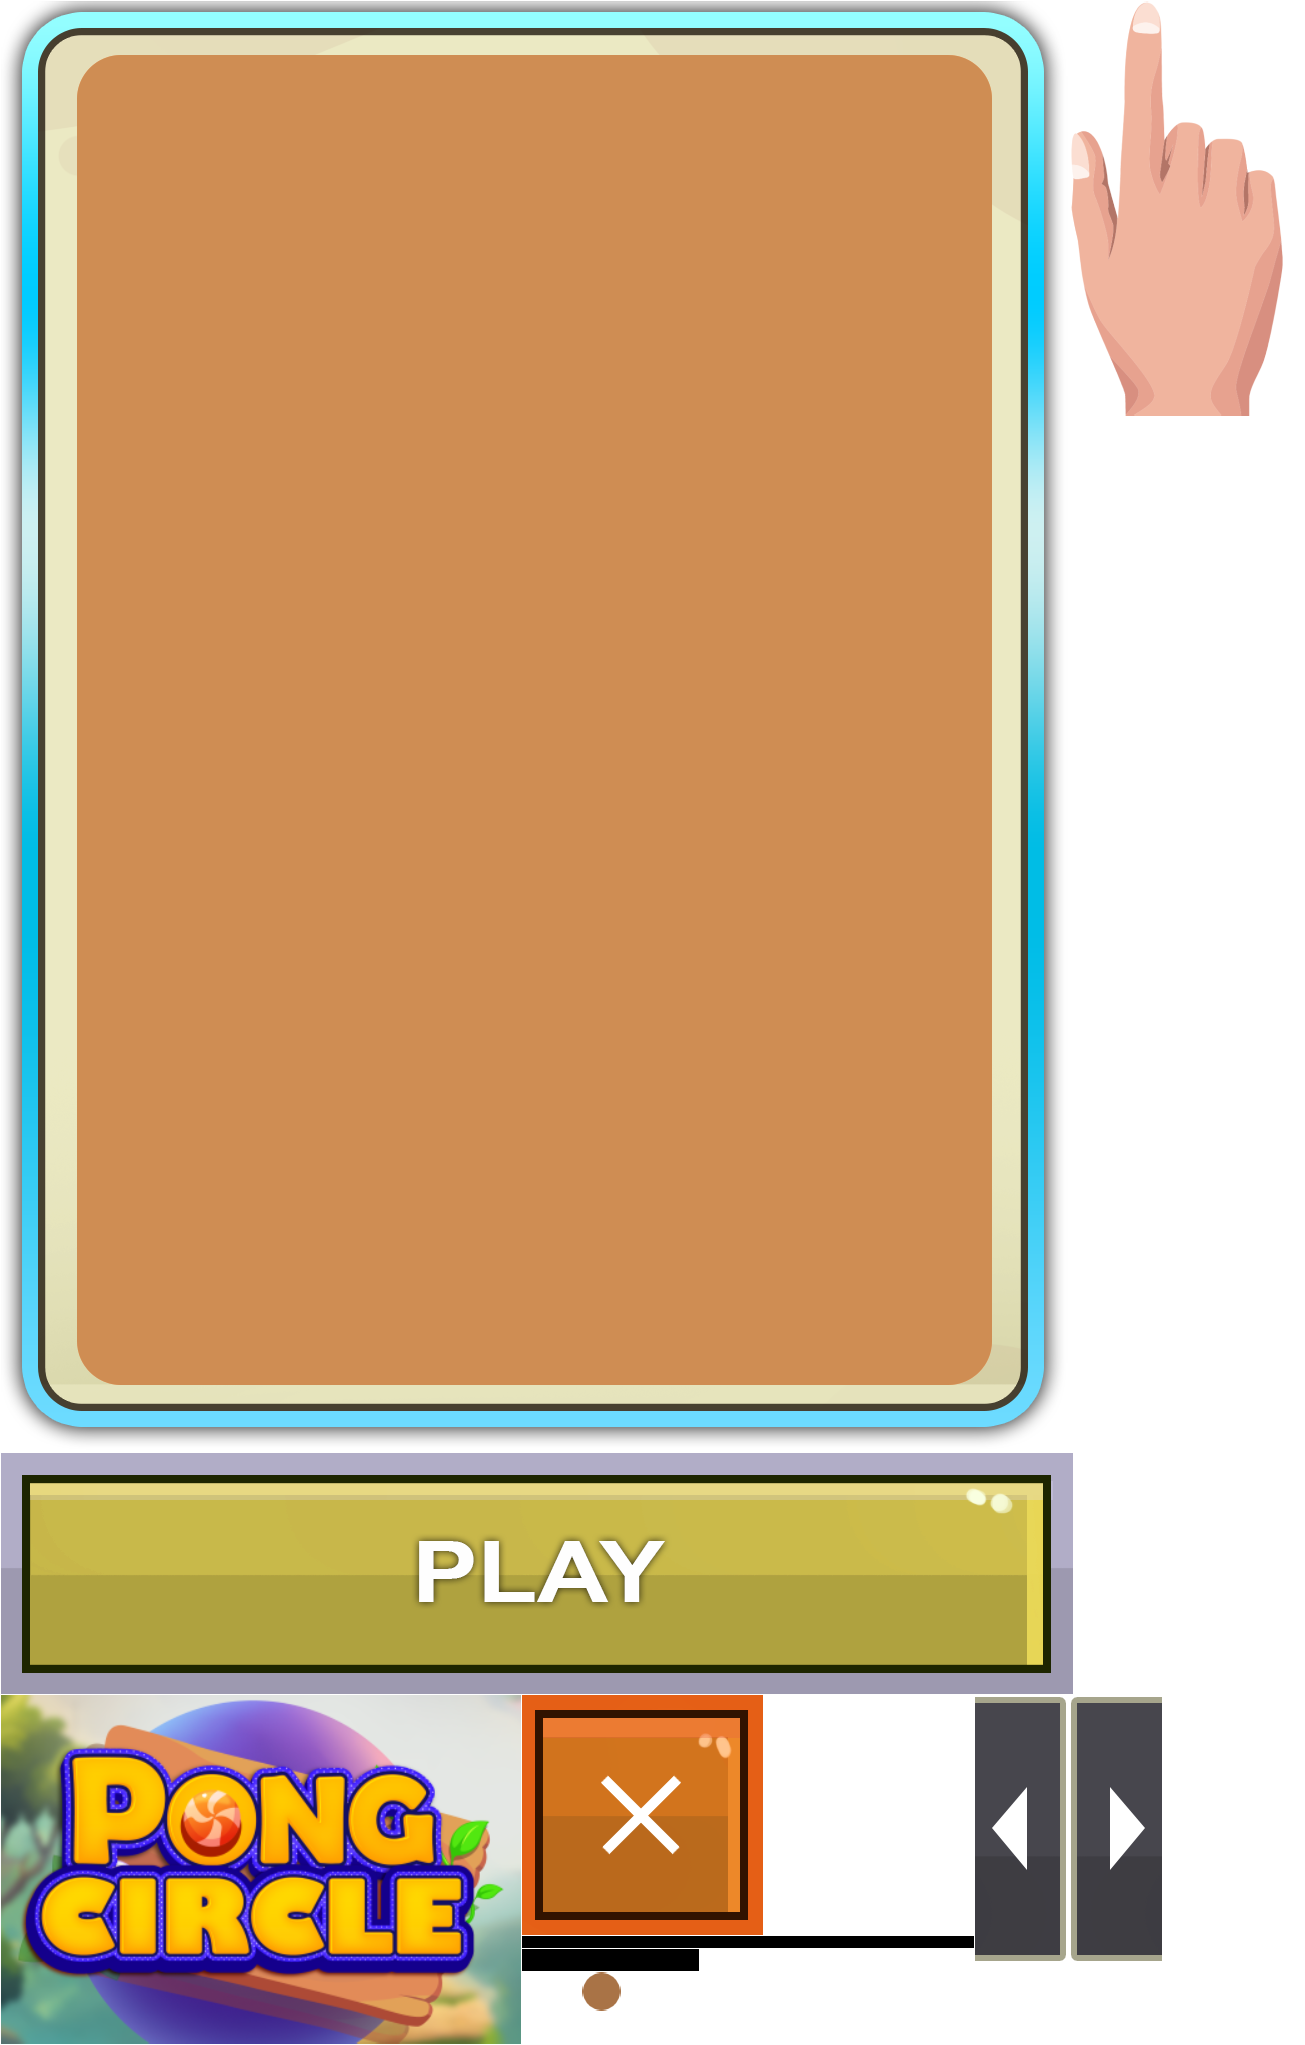
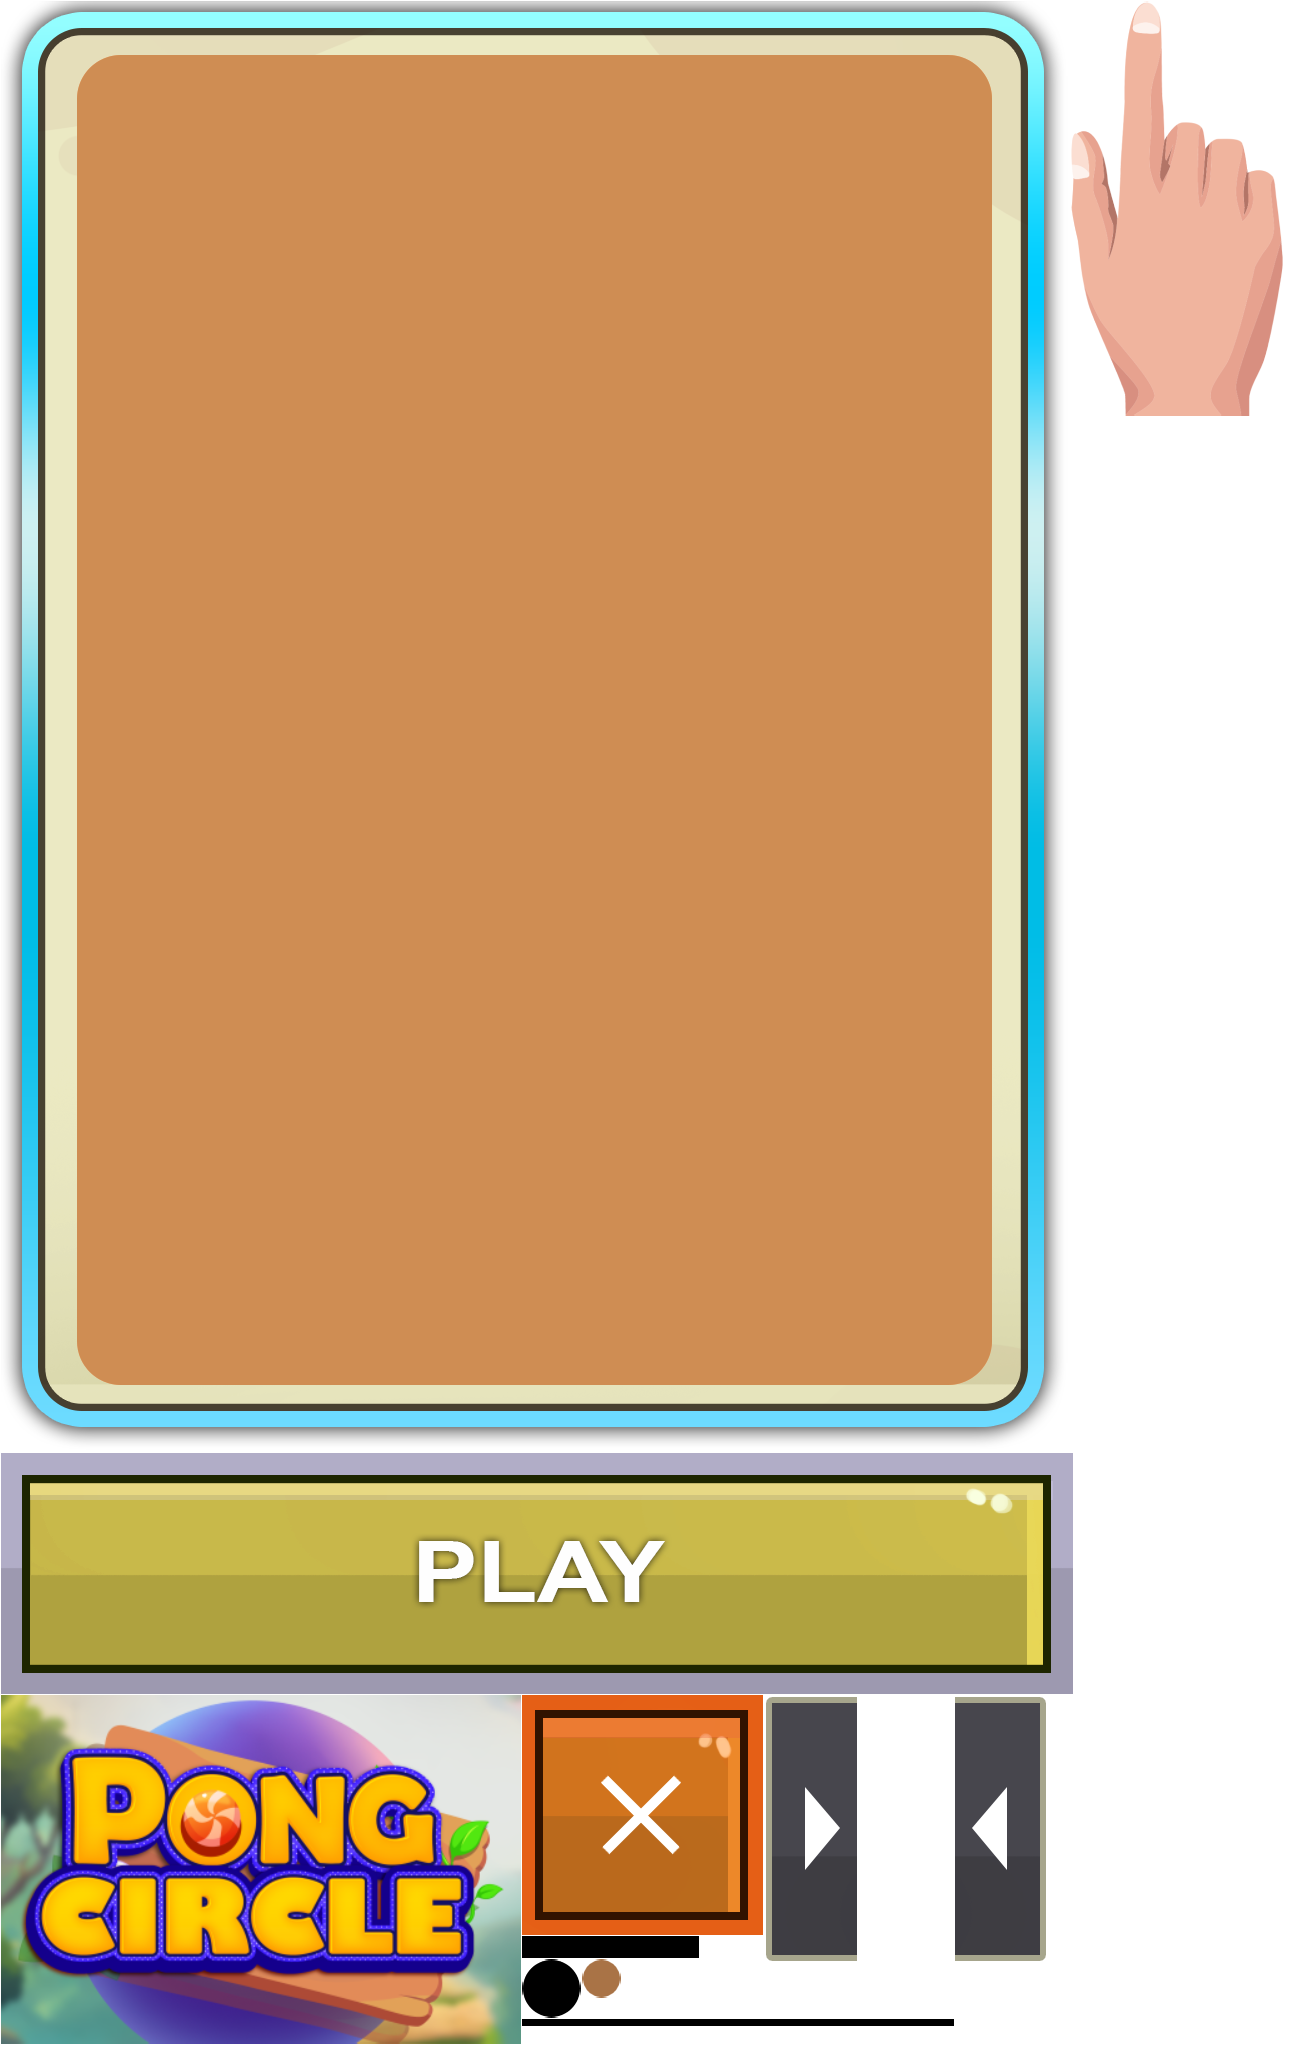
changed colours

Changed region(s): [[0.3985, 0.8318, 0.8889, 1.0]]

diff --git a/objects/cta.js b/objects/cta.js
@@ -27,12 +27,12 @@ export class CTA extends Phaser.GameObjects.Container {
         this.add(this.bg);
 
         this.frame = this.scene.add.graphics();
-        this.frame.lineStyle(5, 0x03d9d9)
+        this.frame.lineStyle(5, 0x000000)
         this.frame.strokeRoundedRect(-225, -400, 450, 800, 50);
         this.add(this.frame);
 
         this.line = this.scene.add.graphics();
-        this.line.fillStyle(0xda6b62, 1)
+        this.line.fillStyle(0x000000, 1)
         this.line.fillRect(-100, 150, 200, 4)
         this.add(this.line);
 
@@ -42,7 +42,7 @@ export class CTA extends Phaser.GameObjects.Container {
         this.ctaText1 = this.scene.add.text(0, -275, this.scene.text.texts[0].ctaTxt1, {
             fontFamily: "UberMoveMedium",
             fontSize: 20,
-            fill: "#ffffff",
+            fill: "#000000",
             align: "center",
         });
         this.ctaText1.setOrigin(0.5);
@@ -62,7 +62,7 @@ export class CTA extends Phaser.GameObjects.Container {
         this.ctaText3 = this.scene.add.text(0, 250, this.scene.text.texts[0].ctaTxt3, {
             fontFamily: "UberMoveMedium",
             fontSize: 40,
-            fill: "#c2c2c2",
+            fill: "#000000",
             align: "center",
         });
         this.ctaText3.setOrigin(0.5);
@@ -71,20 +71,11 @@ export class CTA extends Phaser.GameObjects.Container {
         this.count1 = this.scene.add.text(0, 75, this.countValue, {
             fontFamily: "UberMoveMedium",
             fontSize: 35,
-            fill: "#ffffff",
+            fill: "#000000",
             align: "center",
         });
         this.count1.setOrigin(0.5);
         this.add(this.count1);
-
-        this.count2 = this.scene.add.text(0, 350, this.countValue, {
-            fontFamily: "UberMoveMedium",
-            fontSize: 35,
-            fill: "#da6b62",
-            align: "center",
-        });
-        this.count2.setOrigin(0.5);
-        this.add(this.count2);
 
         // this.playBtn.setInteractive();
         // this.playBtn.on("pointerdown", () => {
@@ -114,13 +105,12 @@ export class CTA extends Phaser.GameObjects.Container {
         if (this.visible) return;
         this.visible = true;
         // this.scene.hideUI();
-        this.count2.setText(this.scene.gamePlay.score)
+        this.count1.setText(this.scene.gamePlay.score)
 
         this.alpha = 0;
         this.logo.alpha = 0;
         this.ctaText3.alpha = 0;
         this.count1.alpha = 0;
-        this.count2.alpha = 0;
 
         this.scene.tweens.add({
             targets: this,
@@ -156,13 +146,7 @@ export class CTA extends Phaser.GameObjects.Container {
                                     ease: "Linear",
                                     duration: 200,
                                     onComplete: () => {
-                                        this.scene.tweens.add({
-                                            targets: this.count2,
-                                            alpha: { from: 0, to: 1 },
-                                            scale: { from: 0, to: this.count2.scale },
-                                            ease: "Linear",
-                                            duration: 200,
-                                        })
+
                                     }
                                 })
                             }

diff --git a/objects/game-play.js b/objects/game-play.js
@@ -122,6 +122,7 @@ export class GamePlay extends Phaser.GameObjects.Container {
 
         if (distance < this.ball.displayWidth) {
             this.staticBall.destroy();
+            this.updateScore();
 
             let randomX = Phaser.Math.Between(this.minX + 50, this.maxX - 50);
             let randomY = Phaser.Math.Between(this.minY + 50, this.maxY - 350);
@@ -182,8 +183,6 @@ export class GamePlay extends Phaser.GameObjects.Container {
     handleLineCollision() {
         if (this.ballVelocityX === 0) {
             this.startLineMovement();
-        } else {
-            this.updateScore();
         }
         this.triggerHitEmitter(this.ball.x, this.ball.y);
         this.ballVelocityY *= -1;
